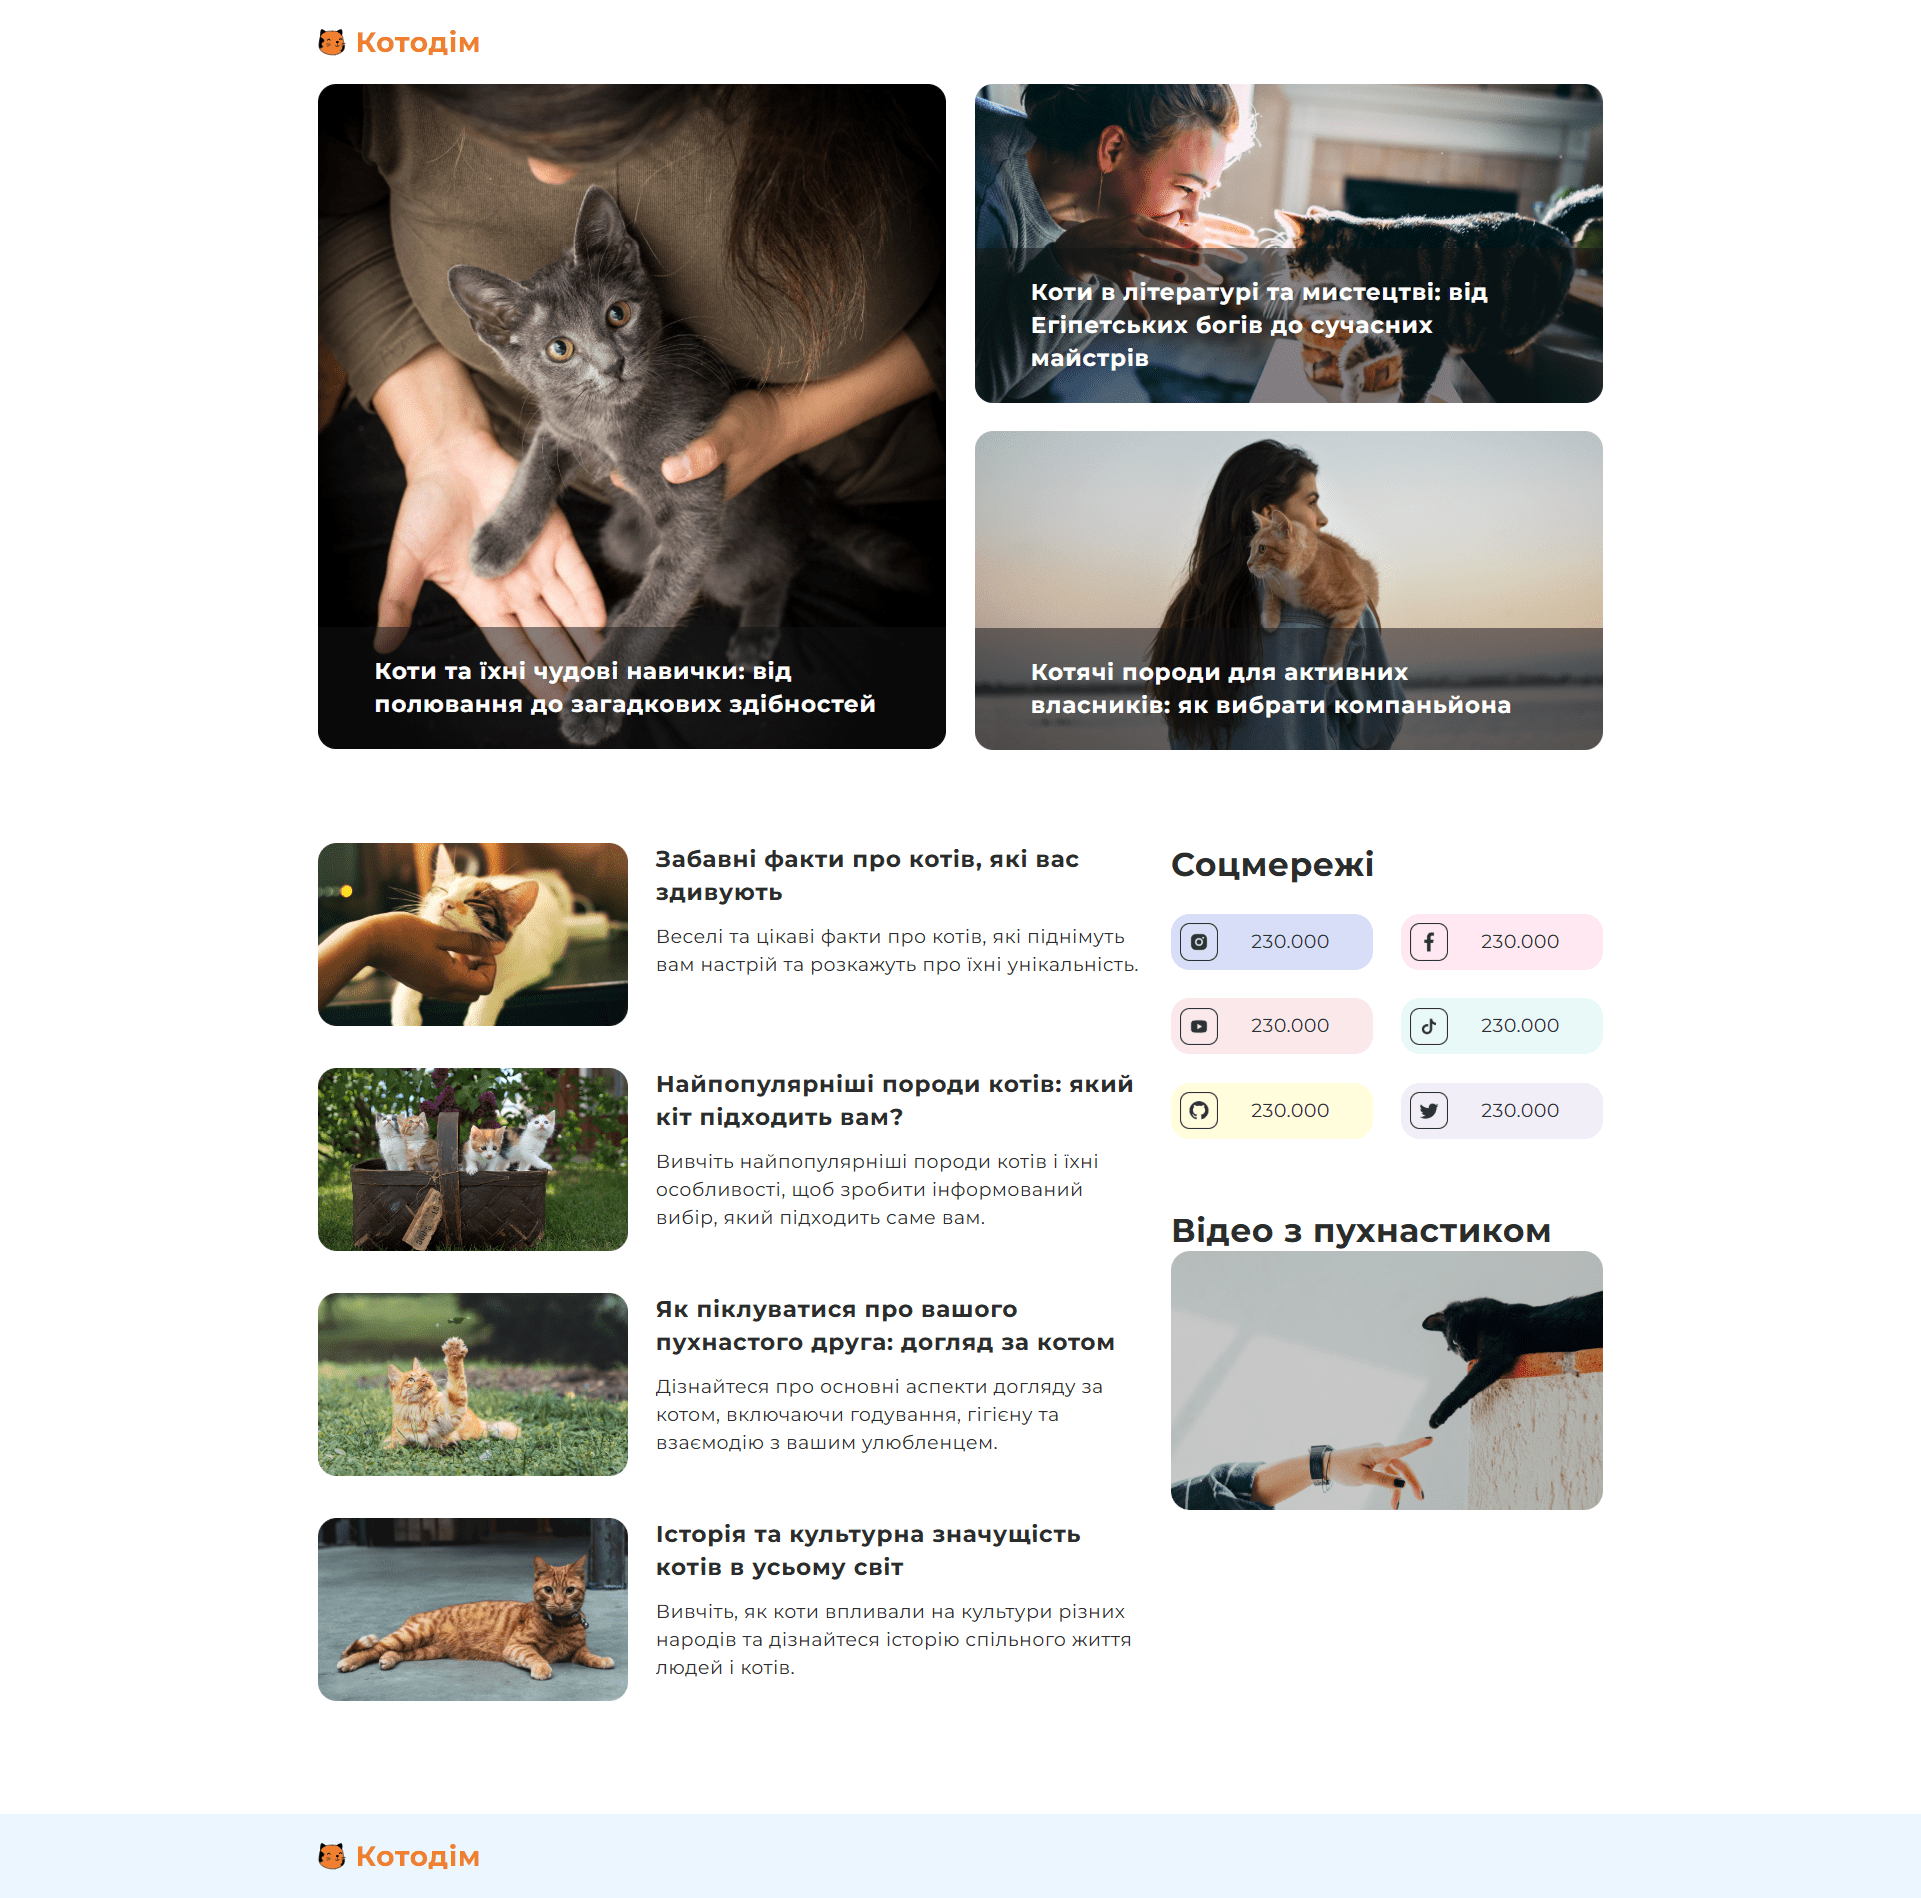
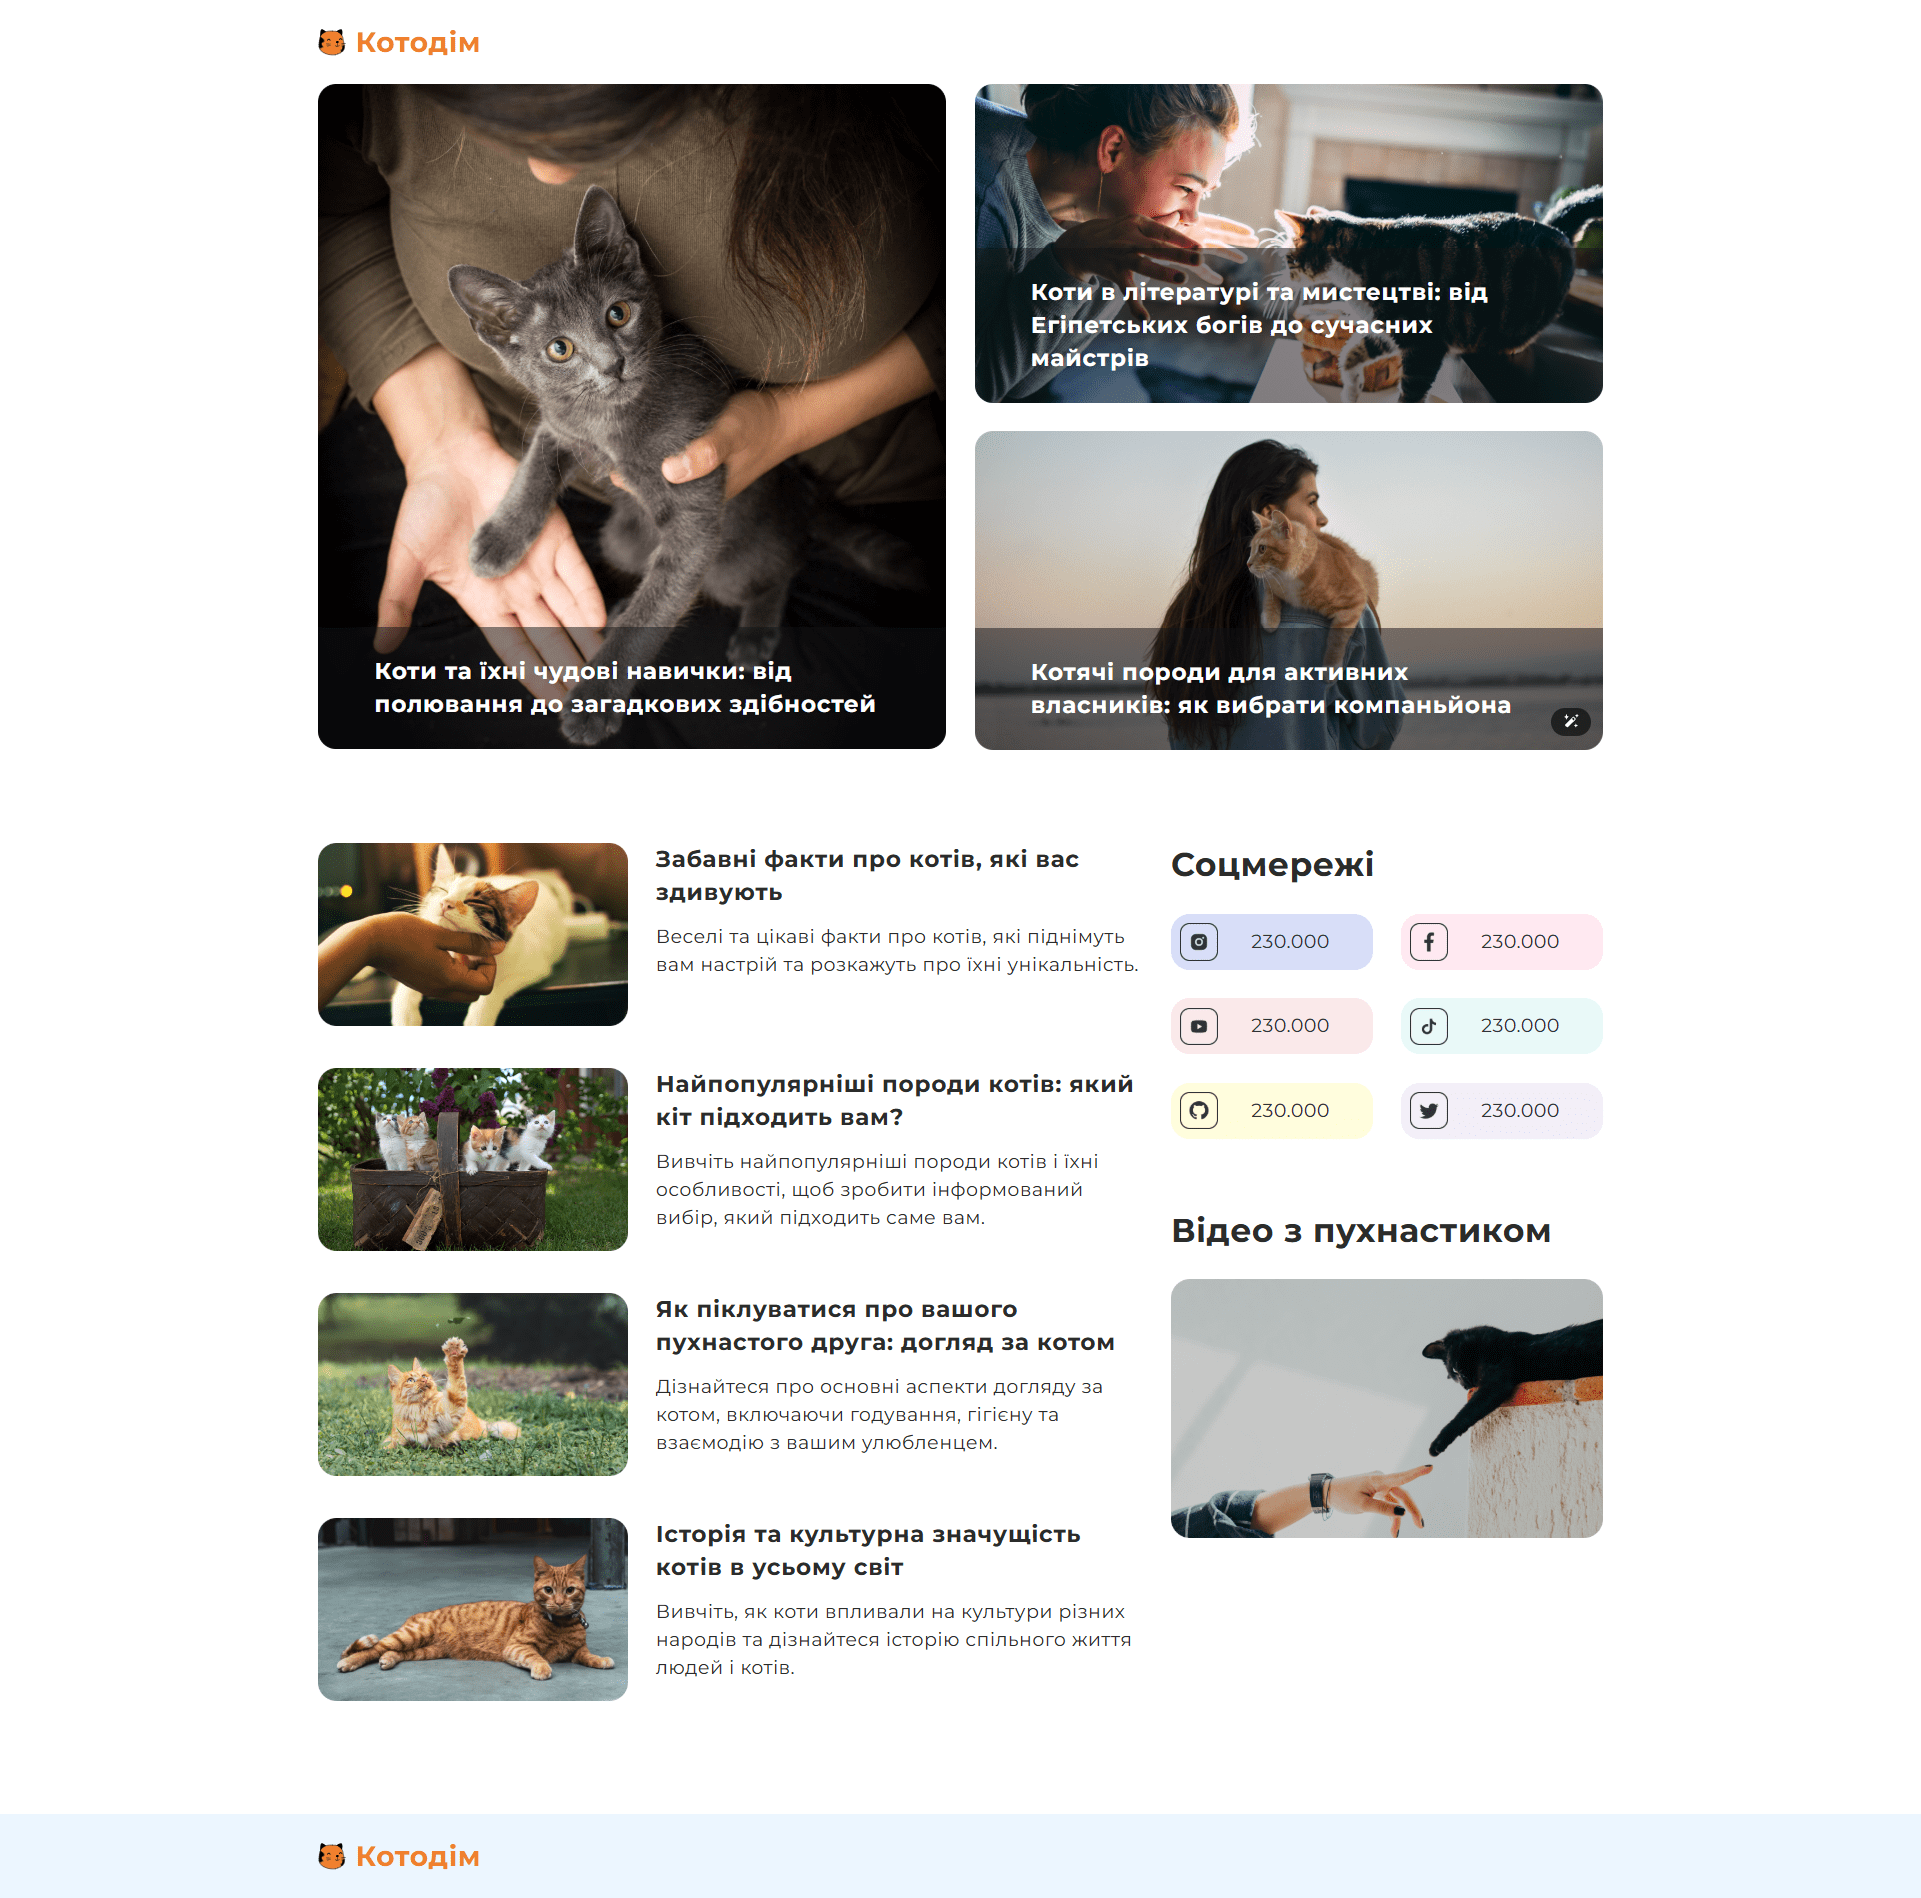
changed video section

Changed region(s): [[0.5934, 0.6528, 0.8433, 0.8082], [0.8121, 0.373, 0.8433, 0.4041]]

diff --git a/styles.css b/styles.css
@@ -187,6 +187,10 @@
     grid-area: v;
   }
 }
+.video {
+  display: grid;
+  gap: 24px;
+}
 .video-title {
   color: var(--grey, #2c2c2c);
   font-family: var(--common-font);
